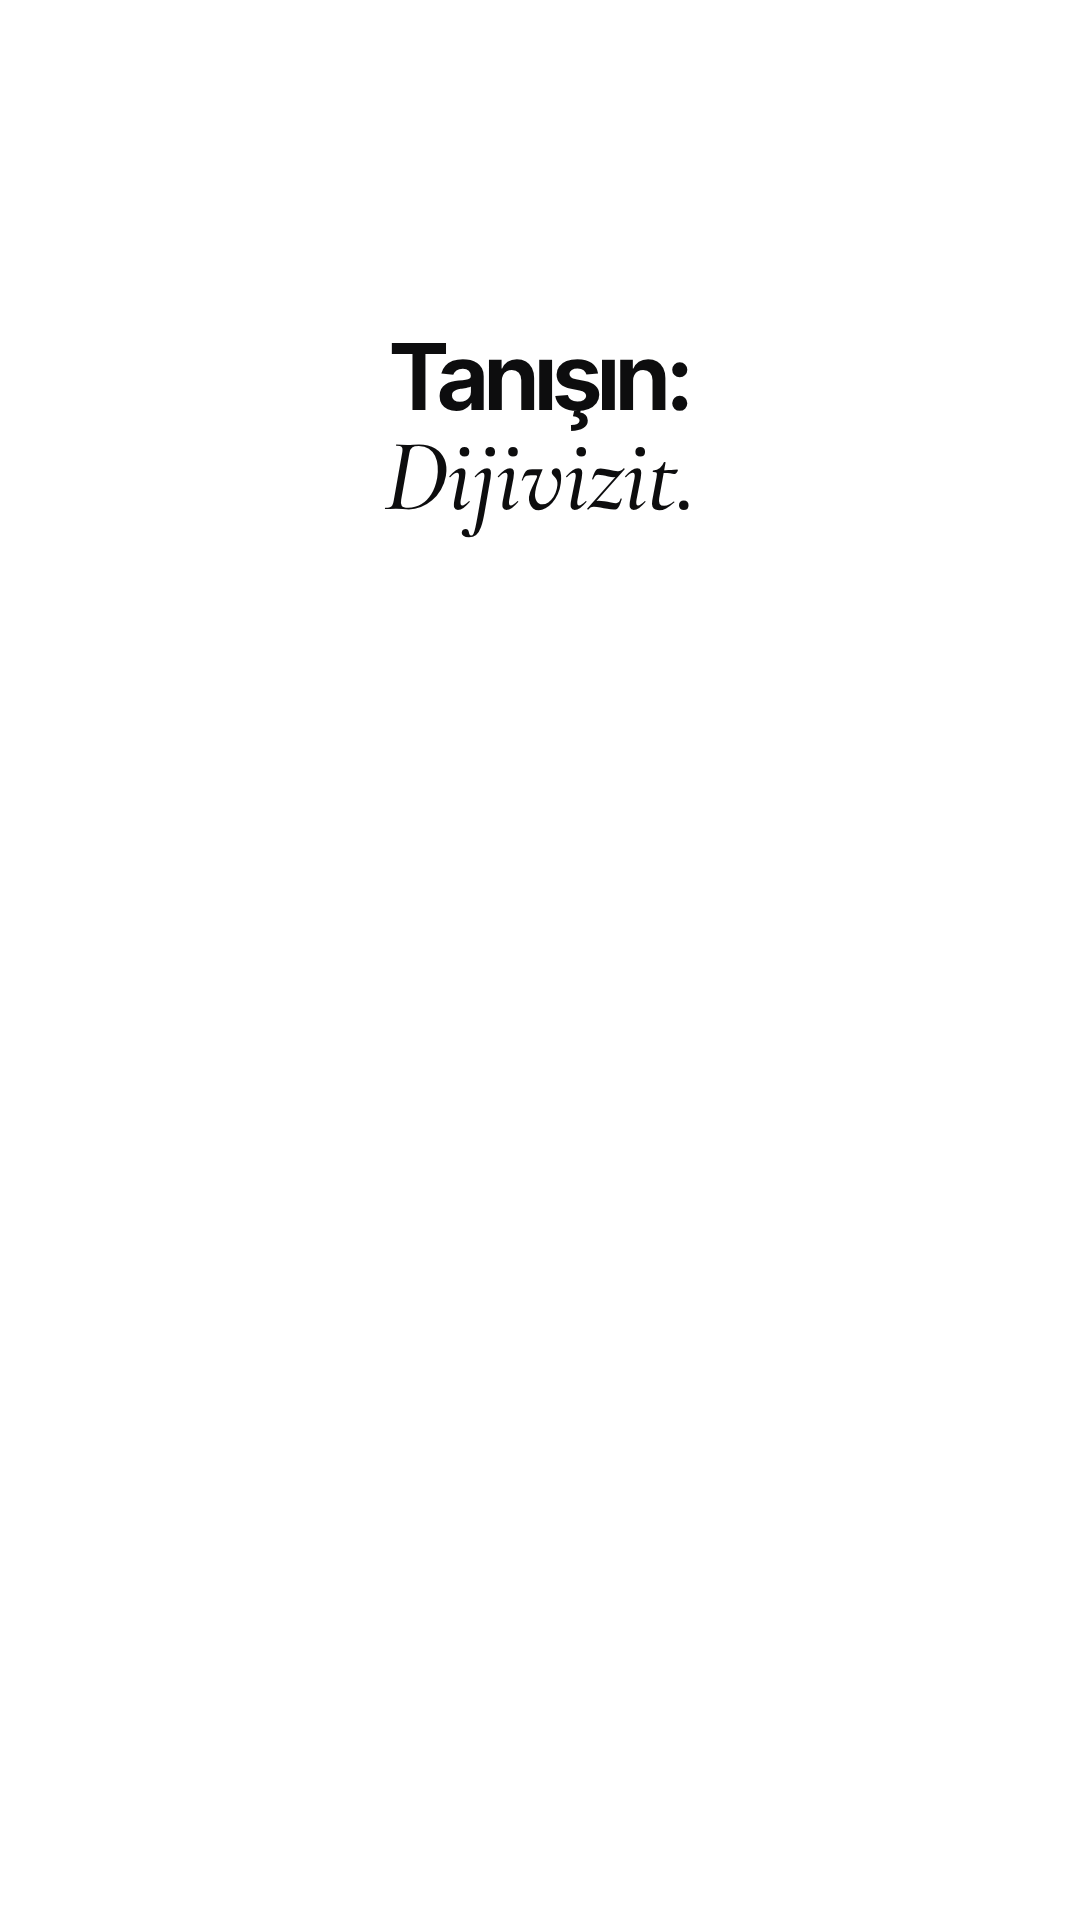
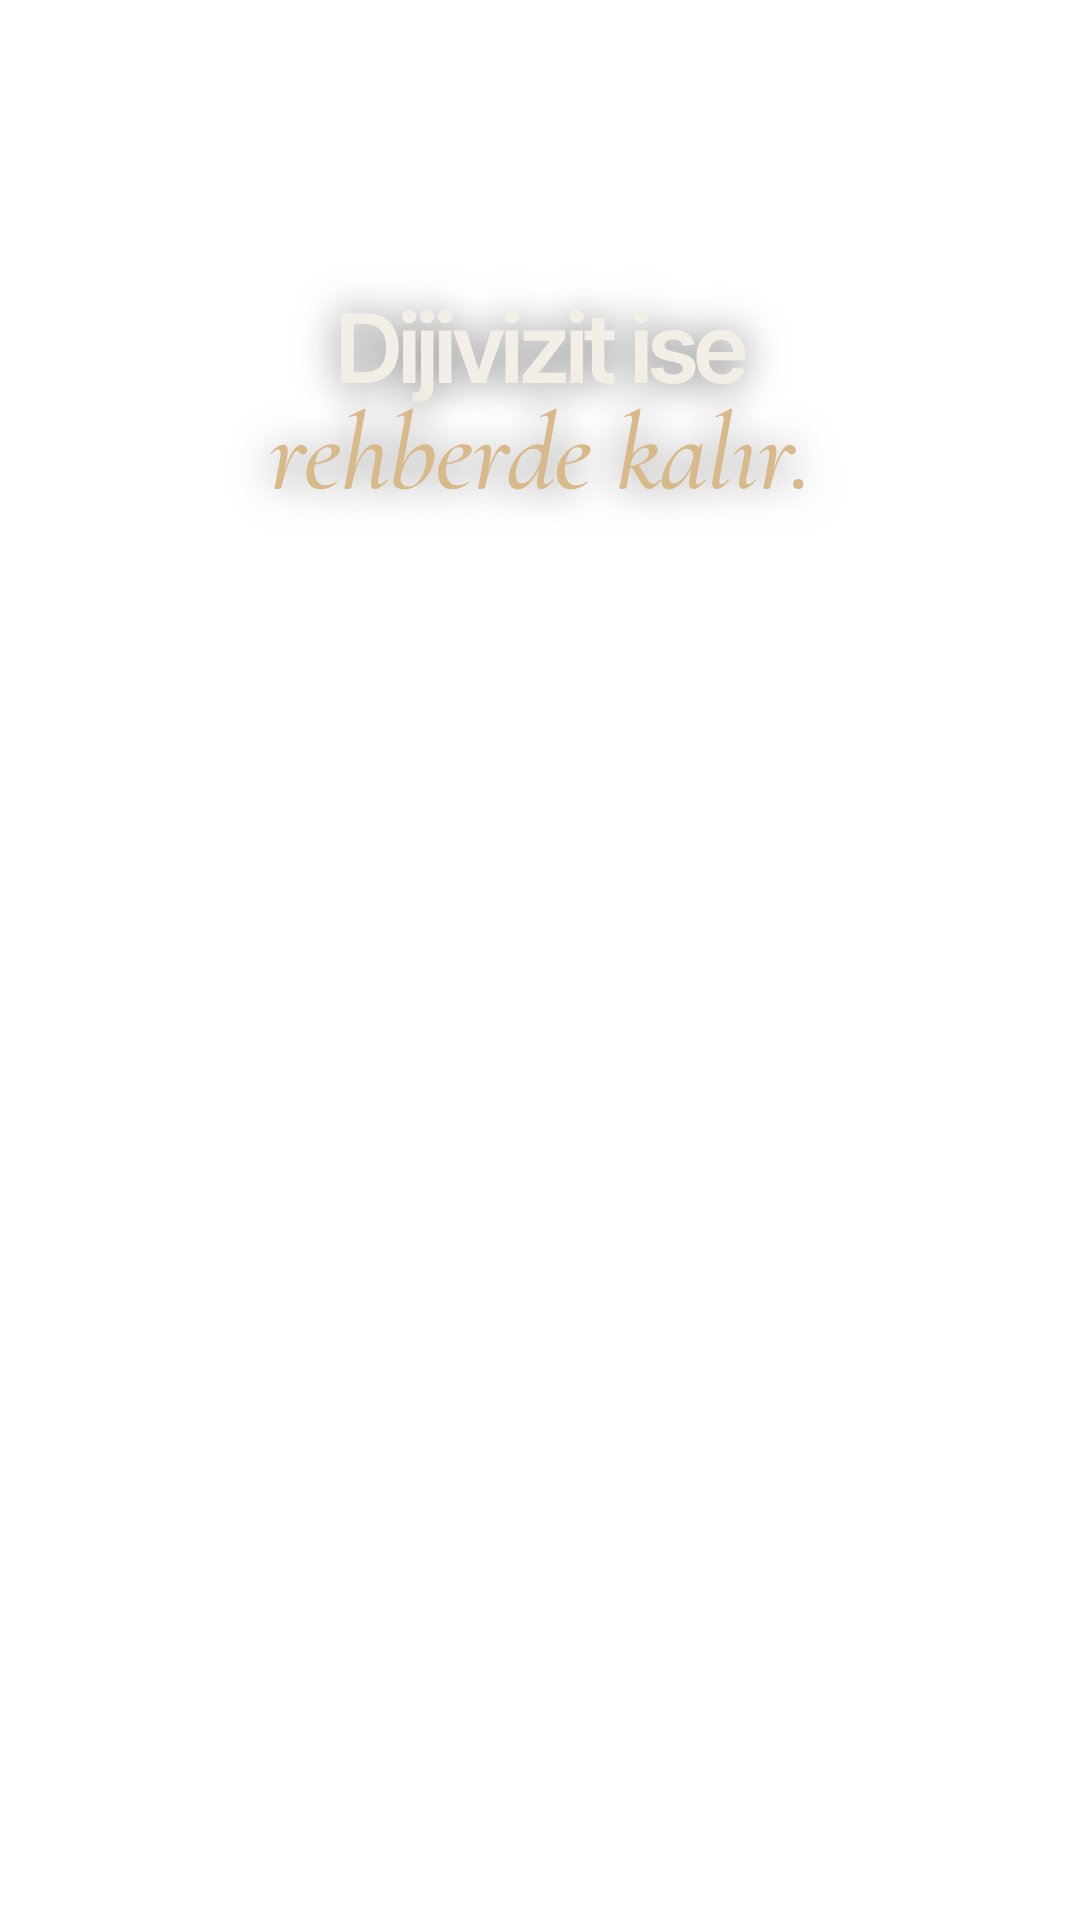
Promo film v2: dark luxury studio, varied finishes, readable Turkish story
Claude-Session: https://claude.ai/code/session_01RbxPV14g2sV64gxynTKrXk

Changed region(s): [[0.2444, 0.1562, 0.7333, 0.2812]]

diff --git a/render/film.py b/render/film.py
@@ -1,8 +1,8 @@
-"""Vertical promo film (1080x1920, 30 fps, 15 s) for Dijivizit sponsored ads.
+"""Vertical promo film (1080x1920, 30 fps, 22 s) for Dijivizit sponsored ads.
 
-Fast-cut 3D product spots on a soft grey studio: macro sweeps across the card,
-a spin, a fan of all five finishes, the NFC tap on a phone, the profile and
-"saved" screens, a duo and an end card. Captions are composited afterwards
+Dark luxury studio: a gold macro reveal, a black card turning, a light wood card
+tapping a phone, the profile and "saved" screens, a fan of all five finishes
+and a wood end card. Captions are composited afterwards
 (marketing/film/compose.py), so these frames carry no text.
 
 python3 render/film.py --out DIR [--frames 0-449] [--samples 48] [--res 1080x1920]
@@ -24,16 +24,14 @@ CARD_W, CARD_H, CARD_T = L.CARD_W, L.CARD_H, L.CARD_T
 
 # (name, first frame, length)
 SHOTS = [
-    ("macro_black", 0, 45),
-    ("macro_gold", 45, 45),
-    ("spin", 90, 45),
-    ("fan", 135, 60),
-    ("tap", 195, 90),
-    ("screen", 285, 60),
-    ("duo", 345, 60),
-    ("end", 405, 45),
+    ("hook", 0, 105),
+    ("spin", 105, 90),
+    ("tap", 195, 135),
+    ("screen", 330, 105),
+    ("fan", 435, 105),
+    ("end", 540, 120),
 ]
-TOTAL = 450
+TOTAL = 660
 
 
 def parse():
@@ -76,9 +74,10 @@ def ease_all(kind="BEZIER"):
 
 # ------------------------------------------------------------------ studio
 
-def studio(bg=0.42, key_e=1.0, warm=0.0):
-    """Soft grey seamless studio like a product film: no floor, a large diffuse
-    backdrop that follows the camera, big soft key, fill and two rims."""
+def studio(bg=1.0, key_e=1.0, warm=0.3):
+    """Dark luxury studio: near-black backdrop with a soft warm glow behind the
+    subject (bg scales it), soft key, warm and cool rims, and camera-invisible
+    strip lights that draw clean highlights on metal."""
     bpy.ops.wm.read_factory_settings(use_empty=True)
     sc = bpy.context.scene
     sc.render.engine = "CYCLES"
@@ -94,13 +93,14 @@ def studio(bg=0.42, key_e=1.0, warm=0.0):
     sc.world = w
     w.use_nodes = True
     bgn = w.node_tree.nodes["Background"]
-    bgn.inputs["Color"].default_value = (0.8, 0.8, 0.82, 1)
-    bgn.inputs["Strength"].default_value = 0.35
-    wc = (1.0, 0.95 - 0.08 * warm, 0.9 - 0.18 * warm)
-    L.area("Key", (3.0, 2.0), (-2.6, -2.4, 2.4), (0, 0, 0), 520 * key_e, wc)
-    L.area("Fill", (3.0, 3.0), (3.0, -2.6, 0.2), (0, 0, 0), 160 * key_e, (0.92, 0.95, 1.0))
-    L.area("RimL", (0.4, 3.5), (-2.2, 2.0, 0.6), (0, 0, 0), 300 * key_e, wc)
-    L.area("RimR", (0.4, 3.5), (2.2, 2.0, 1.0), (0, 0, 0), 260 * key_e, (0.9, 0.94, 1.0))
+    bgn.inputs["Color"].default_value = (0.02, 0.019, 0.018, 1)
+    bgn.inputs["Strength"].default_value = 1.0
+    wc = (1.0, 0.9 - 0.08 * warm, 0.76 - 0.14 * warm)
+    L.area("Key", (2.4, 1.6), (-2.2, -2.4, 2.6), (0, 0, 0), 300 * key_e, wc)
+    L.area("RimL", (0.3, 3.5), (-2.4, 1.8, 0.6), (0, 0, 0), 520 * key_e, (1.0, 0.82, 0.6))
+    L.area("RimR", (0.3, 3.5), (2.4, 1.6, 0.9), (0, 0, 0), 420 * key_e, (0.8, 0.88, 1.0))
+    L.emission_plane("StripTop", (4.0, 0.25), (0, -1.6, 2.4), (0, 0, 0), 4 * key_e, wc)
+    L.emission_plane("StripSide", (0.2, 3.0), (2.0, -2.0, 0.2), (0, 0, 0), 2.5 * key_e, (0.9, 0.94, 1.0))
     sc["bg"] = bg
     return sc
 
@@ -123,13 +123,35 @@ def cam_rig(loc, target, lens=50, fstop=4.0):
     c.up_axis = "UP_Y"
     cd.dof.focus_object = tgt
     bpy.context.scene.camera = cam
-    # Backdrop: a big grey card far behind the subject, locked to the camera.
+    # Backdrop: near-black card far behind the subject, locked to the camera,
+    # with a soft warm radial glow in the middle.
     bd = S.flat("Backdrop", 60, 60, 0.01, seg=1)
-    m, b = S.principled("Backdrop", **{"Base Color": (bpy.context.scene["bg"],) * 3 + (1,), "Roughness": 1.0})
+    m = bpy.data.materials.new("Backdrop")
+    m.use_nodes = True
+    nt = m.node_tree
+    nt.nodes.remove(nt.nodes["Principled BSDF"])
+    tc = nt.nodes.new("ShaderNodeTexCoord")
+    mp = nt.nodes.new("ShaderNodeMapping")
+    mp.inputs["Scale"].default_value = (0.11, 0.075, 1)
+    nt.links.new(tc.outputs["Object"], mp.inputs["Vector"])
+    gr = nt.nodes.new("ShaderNodeTexGradient")
+    gr.gradient_type = "SPHERICAL"
+    nt.links.new(mp.outputs["Vector"], gr.inputs["Vector"])
+    ramp = nt.nodes.new("ShaderNodeValToRGB")
+    ramp.color_ramp.elements[0].color = (0.006, 0.006, 0.006, 1)
+    ramp.color_ramp.elements[1].position = 0.9
+    ramp.color_ramp.elements[1].color = (0.045, 0.034, 0.024, 1)
+    nt.links.new(gr.outputs["Fac"], ramp.inputs["Fac"])
+    em = nt.nodes.new("ShaderNodeEmission")
+    em.inputs["Strength"].default_value = bpy.context.scene["bg"]
+    nt.links.new(ramp.outputs["Color"], em.inputs["Color"])
+    nt.links.new(em.outputs["Emission"], nt.nodes["Material Output"].inputs["Surface"])
     bd.data.materials.append(m)
     bd.parent = cam
     bd.location = (0, 0, -14)
     bd.visible_shadow = False
+    bd.visible_diffuse = False
+    bd.visible_glossy = False
     return cam, tgt
 
 
@@ -186,36 +208,27 @@ def ring_set(center, normal, n=3):
 # ------------------------------------------------------------------ shots
 # Each builder keys its animation in local frames 0..len-1.
 
-def macro_black(n):
-    studio(bg=0.3, key_e=0.9)
-    c = card("C", "black", (0, 0, 0), (90, 0, 0))
-    key(c, 0, rot=(90, 0, -8))
-    key(c, n, rot=(90, 0, 6))
-    cam, t = cam_rig((-0.55, -0.42, 0.22), (-0.3, 0, 0.12), lens=60, fstop=2.0)
-    key(cam, 0, loc=(-0.6, -0.42, 0.26))
-    key(cam, n, loc=(0.35, -0.5, 0.05))
-    key(t, 0, loc=(-0.32, 0, 0.12))
-    key(t, n, loc=(0.25, 0, -0.08))
-    # light sweep across the face
-    sweep = L.area("Sweep", (0.15, 2.0), (-1.6, -1.2, 0.3), (0, 0, 0), 900, (1, 0.98, 0.95))
-    key(sweep, 0, loc=(-1.8, -1.0, 0.3))
-    key(sweep, n, loc=(1.8, -1.0, 0.3))
-
-
-def macro_gold(n):
-    studio(bg=0.36, key_e=1.0, warm=0.5)
+def hook(n):
+    """Gold card emerging from the dark: slow macro slide with a light sweep."""
+    studio(bg=0.8, key_e=0.45, warm=0.6)
+    # the top strip mirrors straight into the lens at this angle; drop it
+    bpy.data.objects.remove(bpy.data.objects["StripTop"])
+    bpy.data.objects["Key"].data.energy *= 0.5
     c = card("C", "gold", (0, 0, 0), (62, 0, 18))
-    key(c, 0, rot=(62, 0, 24))
-    key(c, n, rot=(70, 0, 6))
+    key(c, 0, rot=(62, 0, 26))
+    key(c, n, rot=(72, 0, 4))
     cam, t = cam_rig((0.5, -0.6, 0.5), (0.1, 0, 0.0), lens=70, fstop=2.2)
-    key(cam, 0, loc=(0.75, -0.65, 0.45))
-    key(cam, n, loc=(-0.35, -0.72, 0.3))
-    key(t, 0, loc=(0.25, 0.02, 0.05))
-    key(t, n, loc=(-0.2, 0.02, -0.05))
+    key(cam, 0, loc=(1.3, -1.45, 0.85))
+    key(cam, n, loc=(-0.55, -1.75, 0.6))
+    key(t, 0, loc=(0.12, 0.02, 0.06))
+    key(t, n, loc=(-0.2, 0.02, 0.0))
+    sweep = L.area("Sweep", (0.25, 2.4), (-1.6, -1.2, 0.6), (0, 0, 0), 30, (1, 0.9, 0.75))
+    key(sweep, 0, loc=(-2.2, -1.2, 0.6))
+    key(sweep, n, loc=(2.2, -1.2, 0.6))
 
 
 def spin(n):
-    studio(bg=0.42)
+    studio(bg=1.0)
     c = card("C", "black", (0, 0, 0), (90, 0, 0))
     key(c, 0, loc=(0, 0, -0.25), rot=(98, -10, -40))
     key(c, int(n * 0.75), loc=(0, 0, 0.05), rot=(90, 0, 360 + 180))
@@ -226,7 +239,7 @@ def spin(n):
 
 
 def fan(n):
-    studio(bg=0.4, warm=0.2)
+    studio(bg=1.0, warm=0.4)
     fins = ["wood-light", "wood", "silver", "gold", "black"]
     pivot_world = Vector((-0.3, 0, -0.5))
     for i, fin in enumerate(fins):
@@ -249,12 +262,12 @@ def fan(n):
 
 
 def tap(n):
-    studio(bg=0.45)
+    studio(bg=1.0)
     ph, mixes = phone("idle")
     key(ph, 0, loc=(0.1, 0, -0.2), rot=(90, 0, -14))
     key(ph, n, loc=(0.1, 0, -0.18), rot=(90, 0, -20))
-    c = card("C", "black")
-    contact = int(n * 0.42)
+    c = card("C", "wood-light")
+    contact = int(n * 0.36)
     bpy.context.scene.frame_set(0)
 
     def behind(f, local, tilt=(0, 0, 0)):
@@ -299,7 +312,7 @@ def tap(n):
 
 
 def screen(n):
-    studio(bg=0.45)
+    studio(bg=1.0)
     ph, mixes = phone("profile")
     key(ph, 0, loc=(0, 0, 0), rot=(90, 0, -6))
     key(ph, n, loc=(0, 0, 0), rot=(90, 0, 4))
@@ -316,24 +329,9 @@ def screen(n):
     key(t, n, loc=(0, 0, 0.2))
 
 
-def duo(n):
-    studio(bg=0.42, warm=0.3)
-    p = bpy.data.objects.new("Duo", None)
-    bpy.context.collection.objects.link(p)
-    g = card("G", "gold", (0.16, 0.06, 0.1), (90, 0, 10))
-    b = card("B", "black", (-0.12, -0.04, -0.06), (90, 0, -6))
-    for c in (g, b):
-        c.parent = p
-    key(p, 0, rot=(-14, 18, -28))
-    key(p, n, rot=(-6, -8, 22))
-    cam, t = cam_rig((0, -1.6, 0.1), (0, 0, 0), lens=50, fstop=5.6)
-    key(cam, 0, loc=(0, -2.5, 0.05))
-    key(cam, n, loc=(0, -2.15, 0.12))
-
-
 def end(n):
-    studio(bg=0.38)
-    c = card("C", "black", (0, 0, 0.5), (90, 0, 0))
+    studio(bg=1.1, warm=0.5)
+    c = card("C", "wood", (0, 0, 0.5), (90, 0, 0))
     key(c, 0, loc=(0, 0, 0.42), rot=(96, -4, -22))
     key(c, n, loc=(0, 0, 0.5), rot=(92, 0, 8))
     cam, t = cam_rig((0, -2.6, 0.1), (0, 0, 0.1), lens=50, fstop=5.6)
@@ -343,7 +341,7 @@ BUILDERS = {name: globals()[name] for name, _, _ in SHOTS}
 
 # Raise the camera and its aim so the subject sits lower in frame, leaving the
 # upper third (inside the Reels safe zone) clear for captions.
-LIFT = {"spin": 0.3, "fan": 0.3, "tap": 0.4, "screen": 0.3, "duo": 0.3, "end": 0.45}
+LIFT = {"hook": 0.12, "spin": 0.3, "fan": 0.3, "tap": 0.4, "screen": 0.3, "end": 0.45}
 
 
 def lift_view(dz):

diff --git a/marketing/film/compose.py b/marketing/film/compose.py
@@ -13,19 +13,17 @@ HERE = os.path.dirname(os.path.abspath(__file__))
 FPS = 30
 # caption id -> (first frame, last frame); fades in/out over FADE frames
 CUES = {
-    "01": (4, 42),
-    "02": (49, 87),
-    "03": (94, 132),
-    "04": (140, 192),
-    "05": (199, 232),
-    "06": (236, 282),
-    "07": (289, 342),
-    "08": (349, 402),
-    "09": (410, 449),
+    "01": (10, 98),
+    "02": (112, 188),
+    "03": (200, 262),
+    "04": (268, 325),
+    "05": (338, 428),
+    "06": (442, 532),
+    "07": (548, 659),
 }
-FADE = 6
+FADE = 8
 RISE = 26
-LAST = 449
+LAST = 659
 
 
 def smooth(t):
